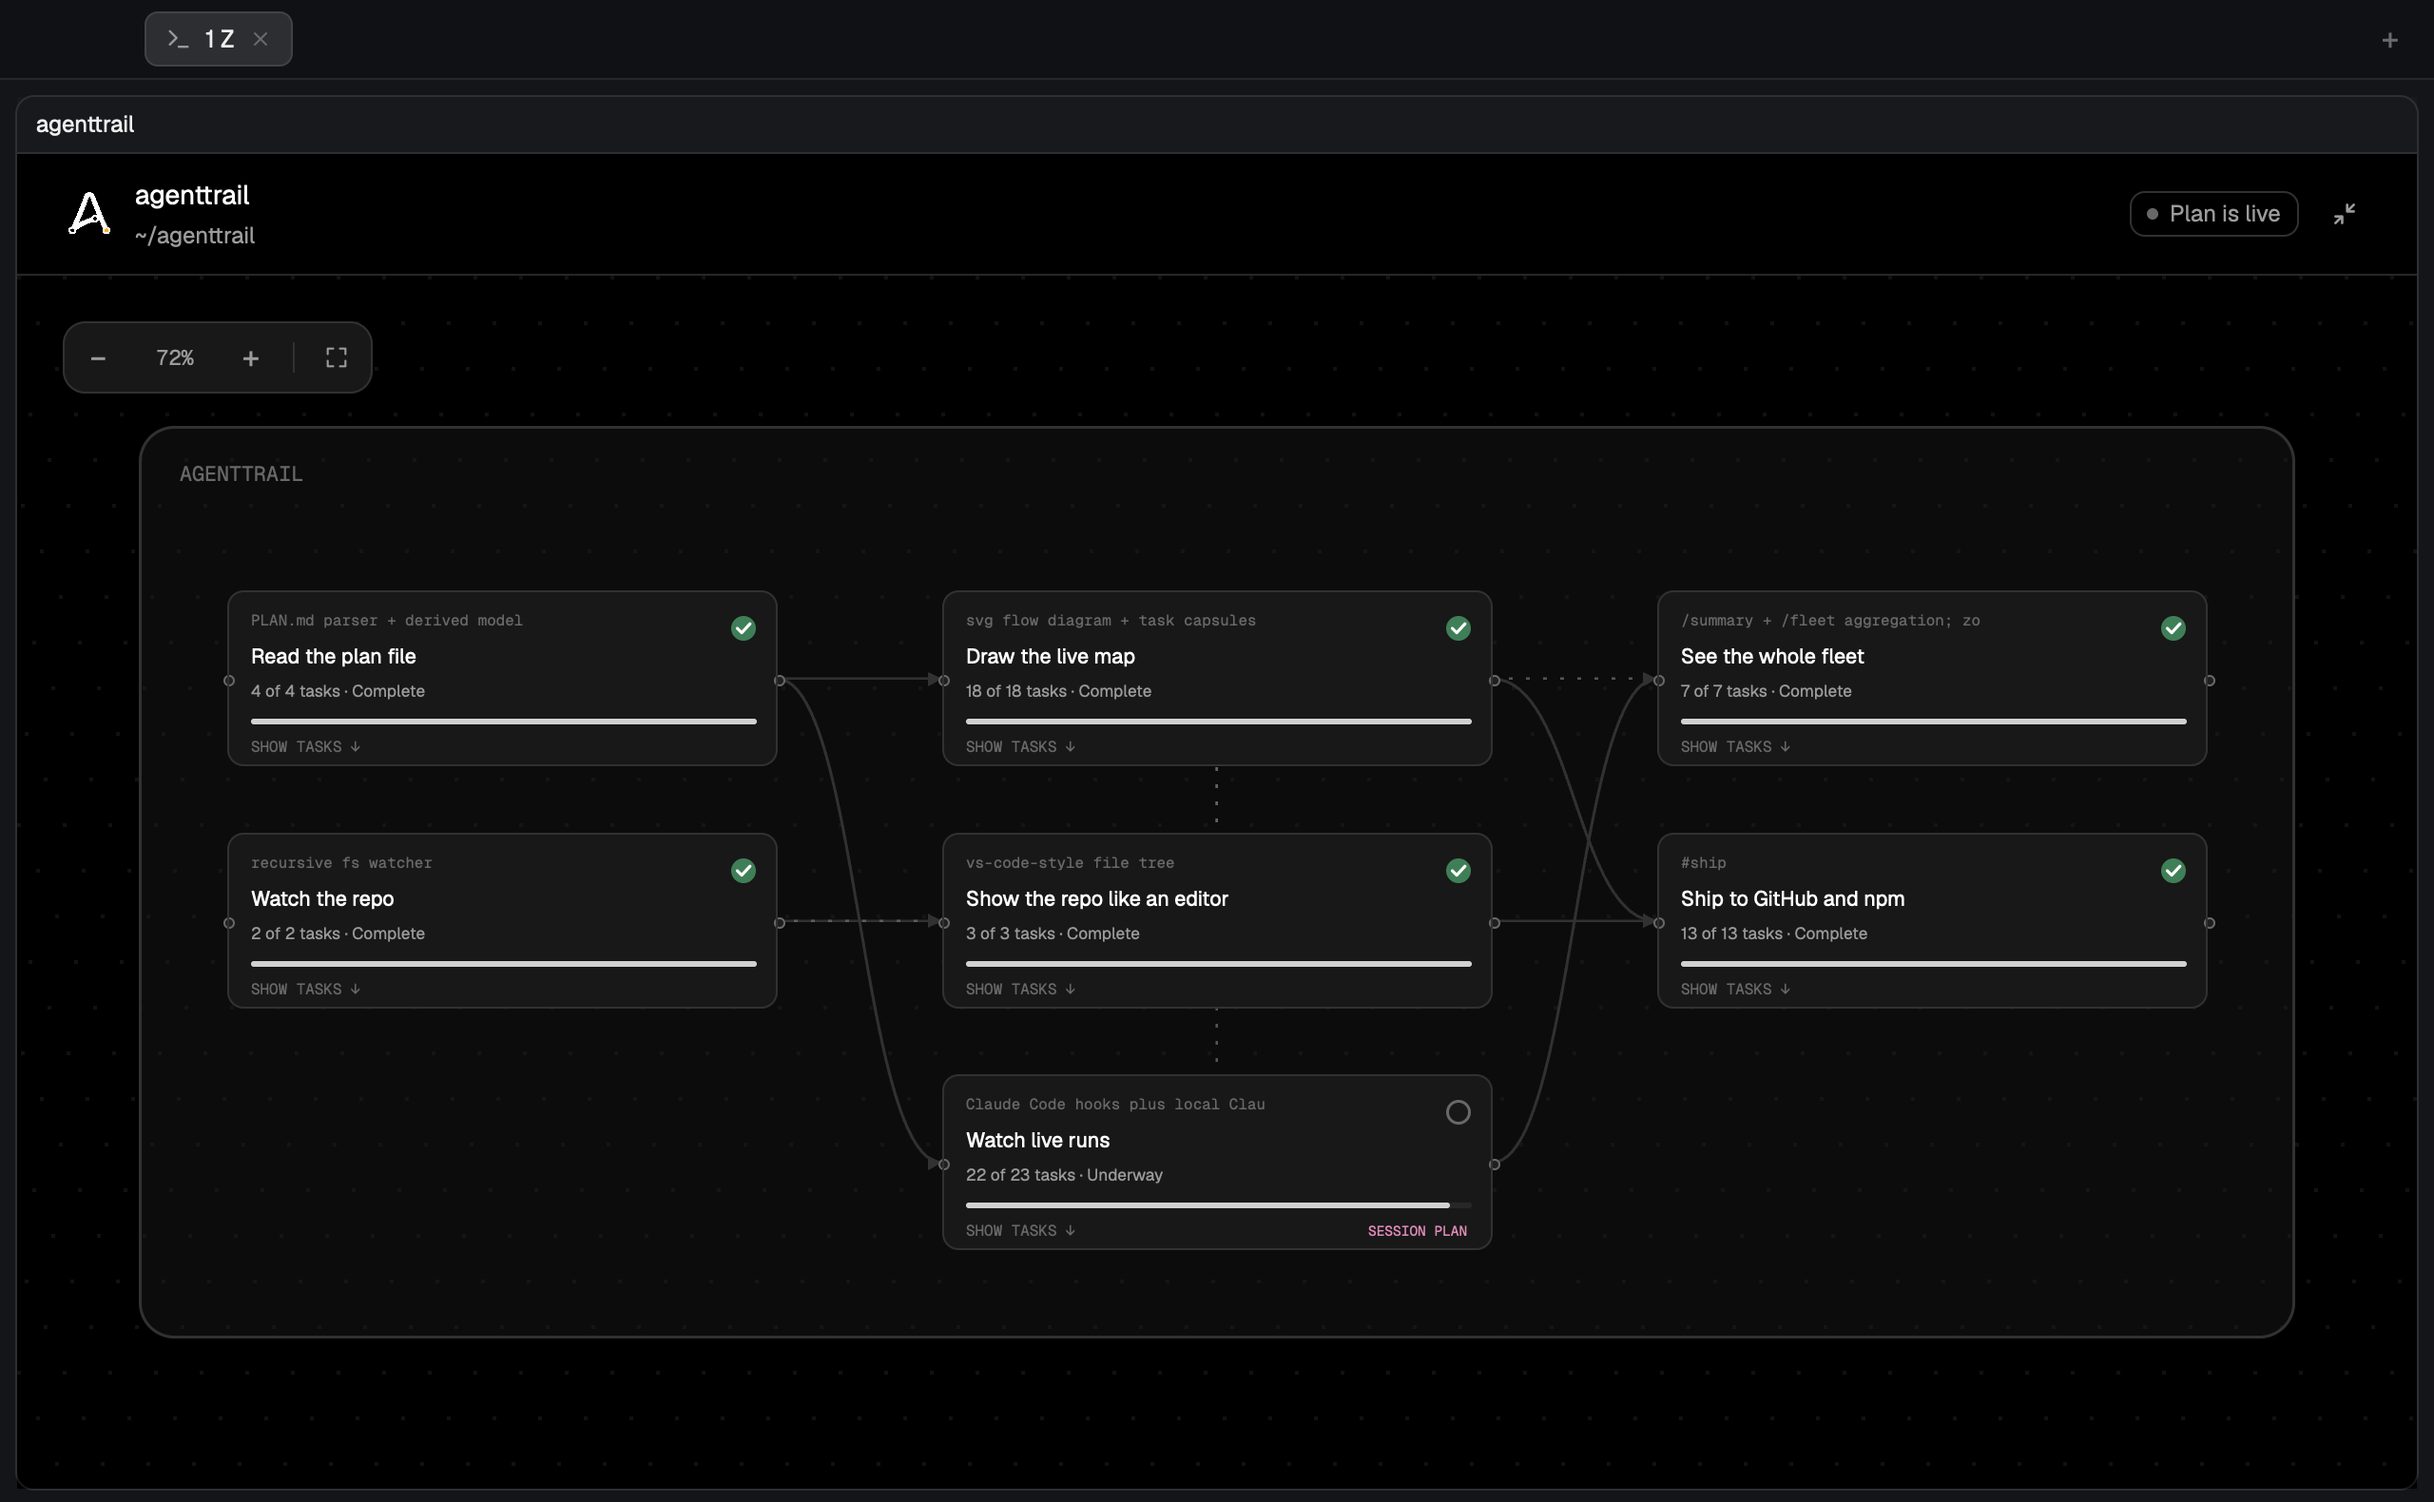
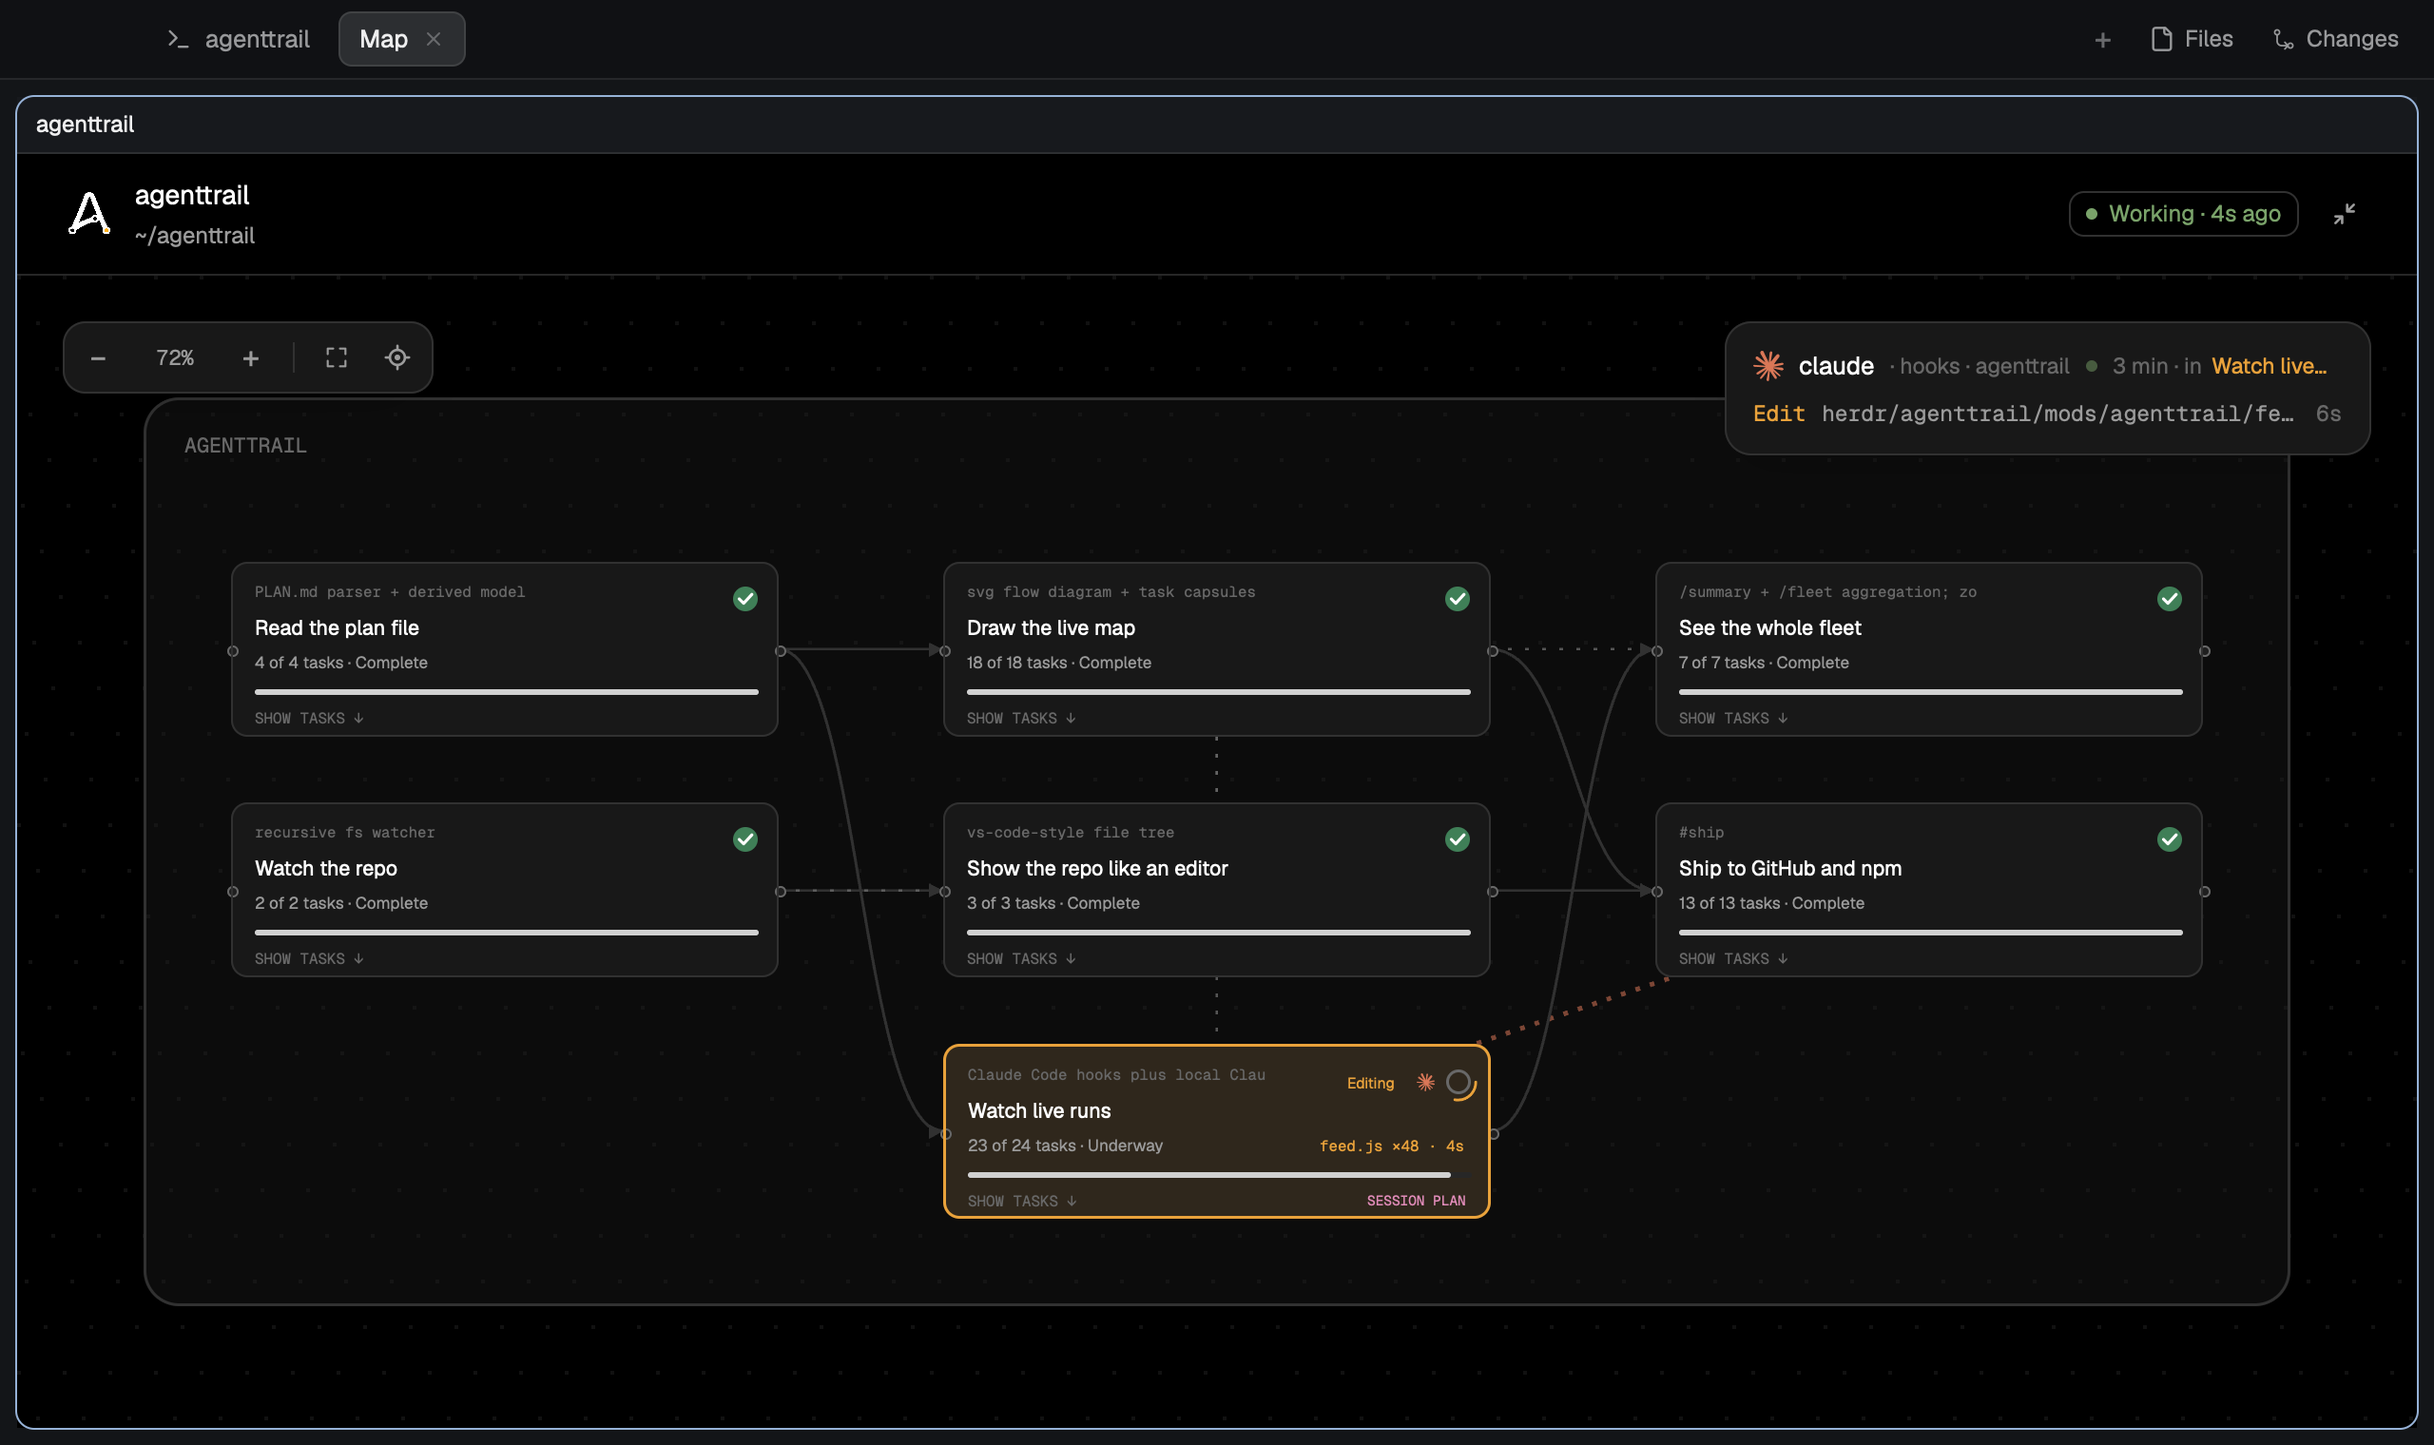
Herdr preview: the whole graph, with live work on one card
Retaken in a clean Herdr on a copy of this repository: the mod expanded to a
full tab and fitted, all seven cards and their connectors, one card being
edited with its ring and agent mark, and a trail from the card the agent left.
The agent is a stand-in driven by posted hook events and real edits in the
copy, and the README caption says so.

diff --git a/herdr/README.md b/herdr/README.md
@@ -4,7 +4,7 @@ A [Herdr](https://herdr.dev) mod: Agenttrail Map, drawn natively beside your age
 
 ![Agenttrail for Herdr](agenttrail/preview.png)
 
-The picture is the real mod reading a real Map on this repository's own `PLAN.md`.
+The picture is the real mod, expanded to a full tab, reading a real Map on a copy of this repository and its own `PLAN.md`. The agents in it are stand-ins: a script posted Claude Code style hook events to Map and made real edits in the copy, so the cards show live work without a real agent session.
 
 [`agenttrail/`](agenttrail/) is the shareable folder: `mods/agenttrail/`, the [`RECIPE.md`](agenttrail/RECIPE.md) another agent can build it from, and `preview.png`.
 
